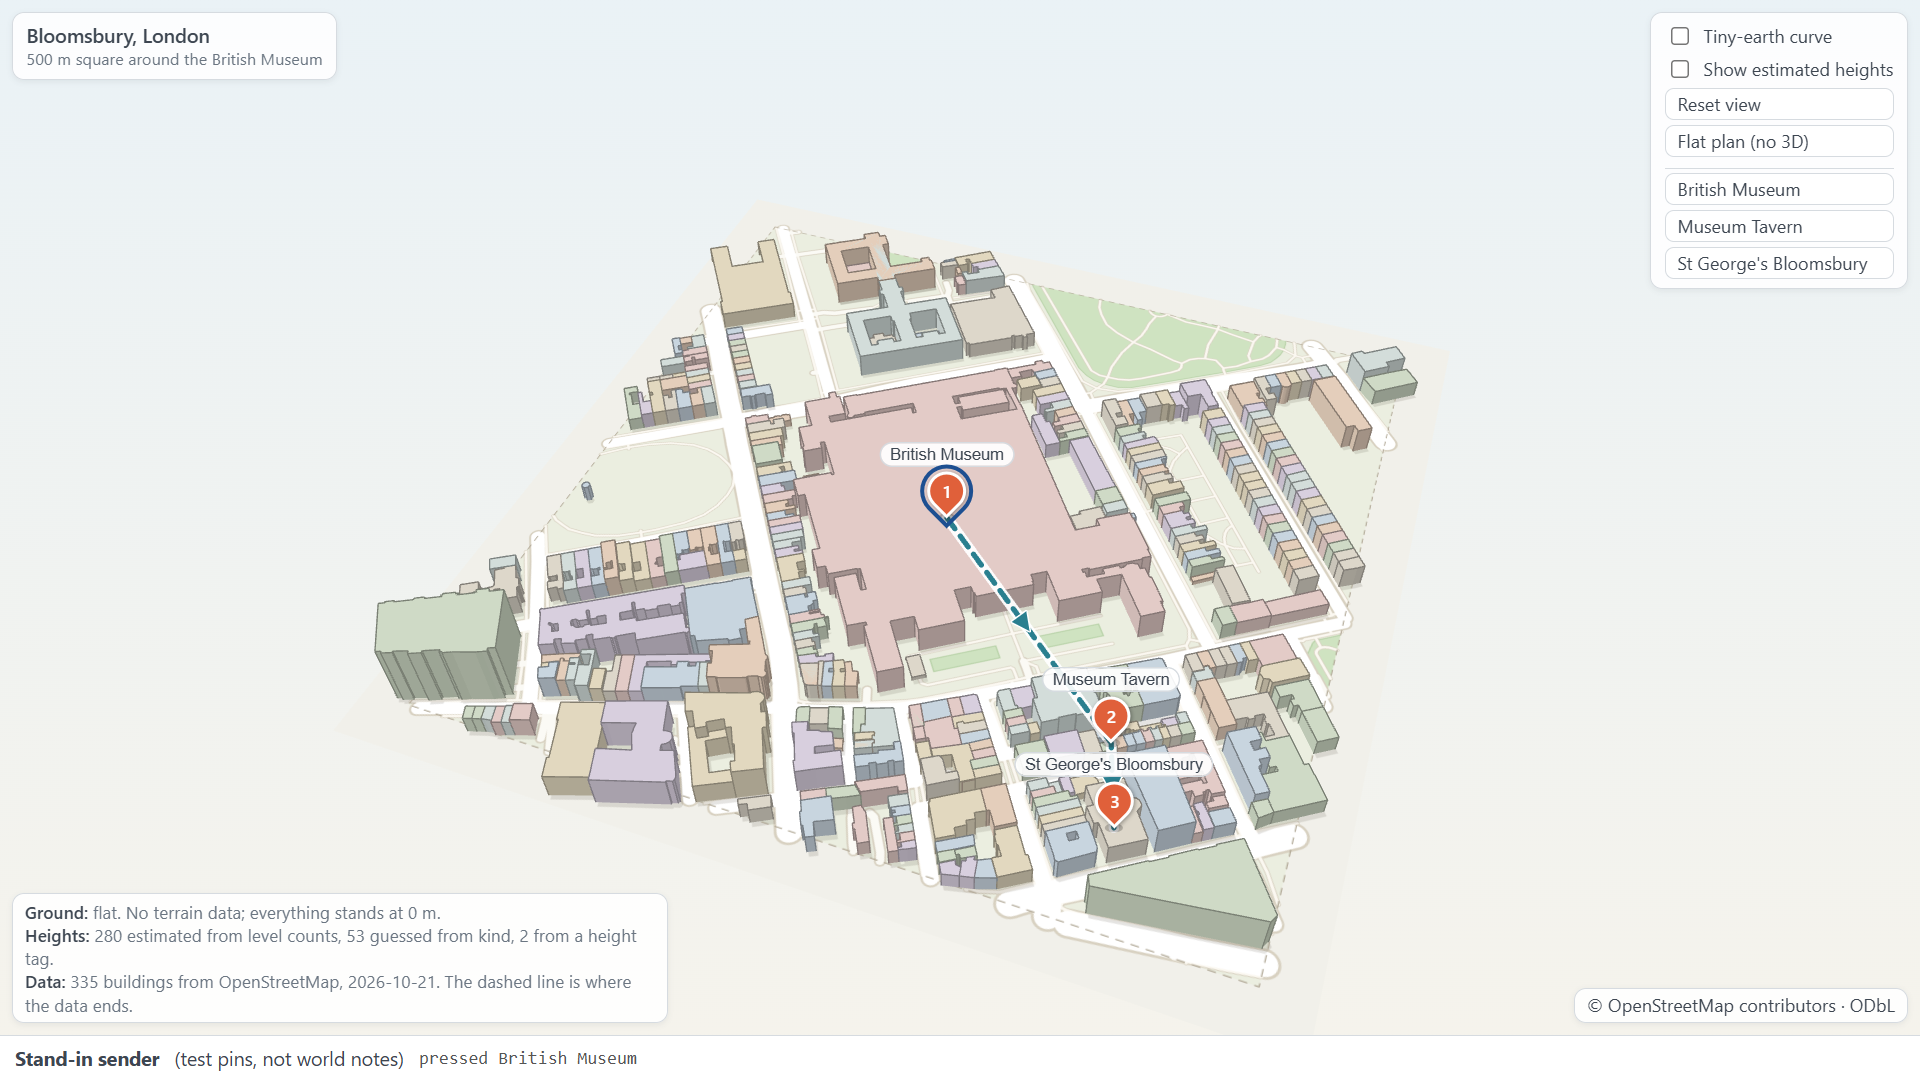
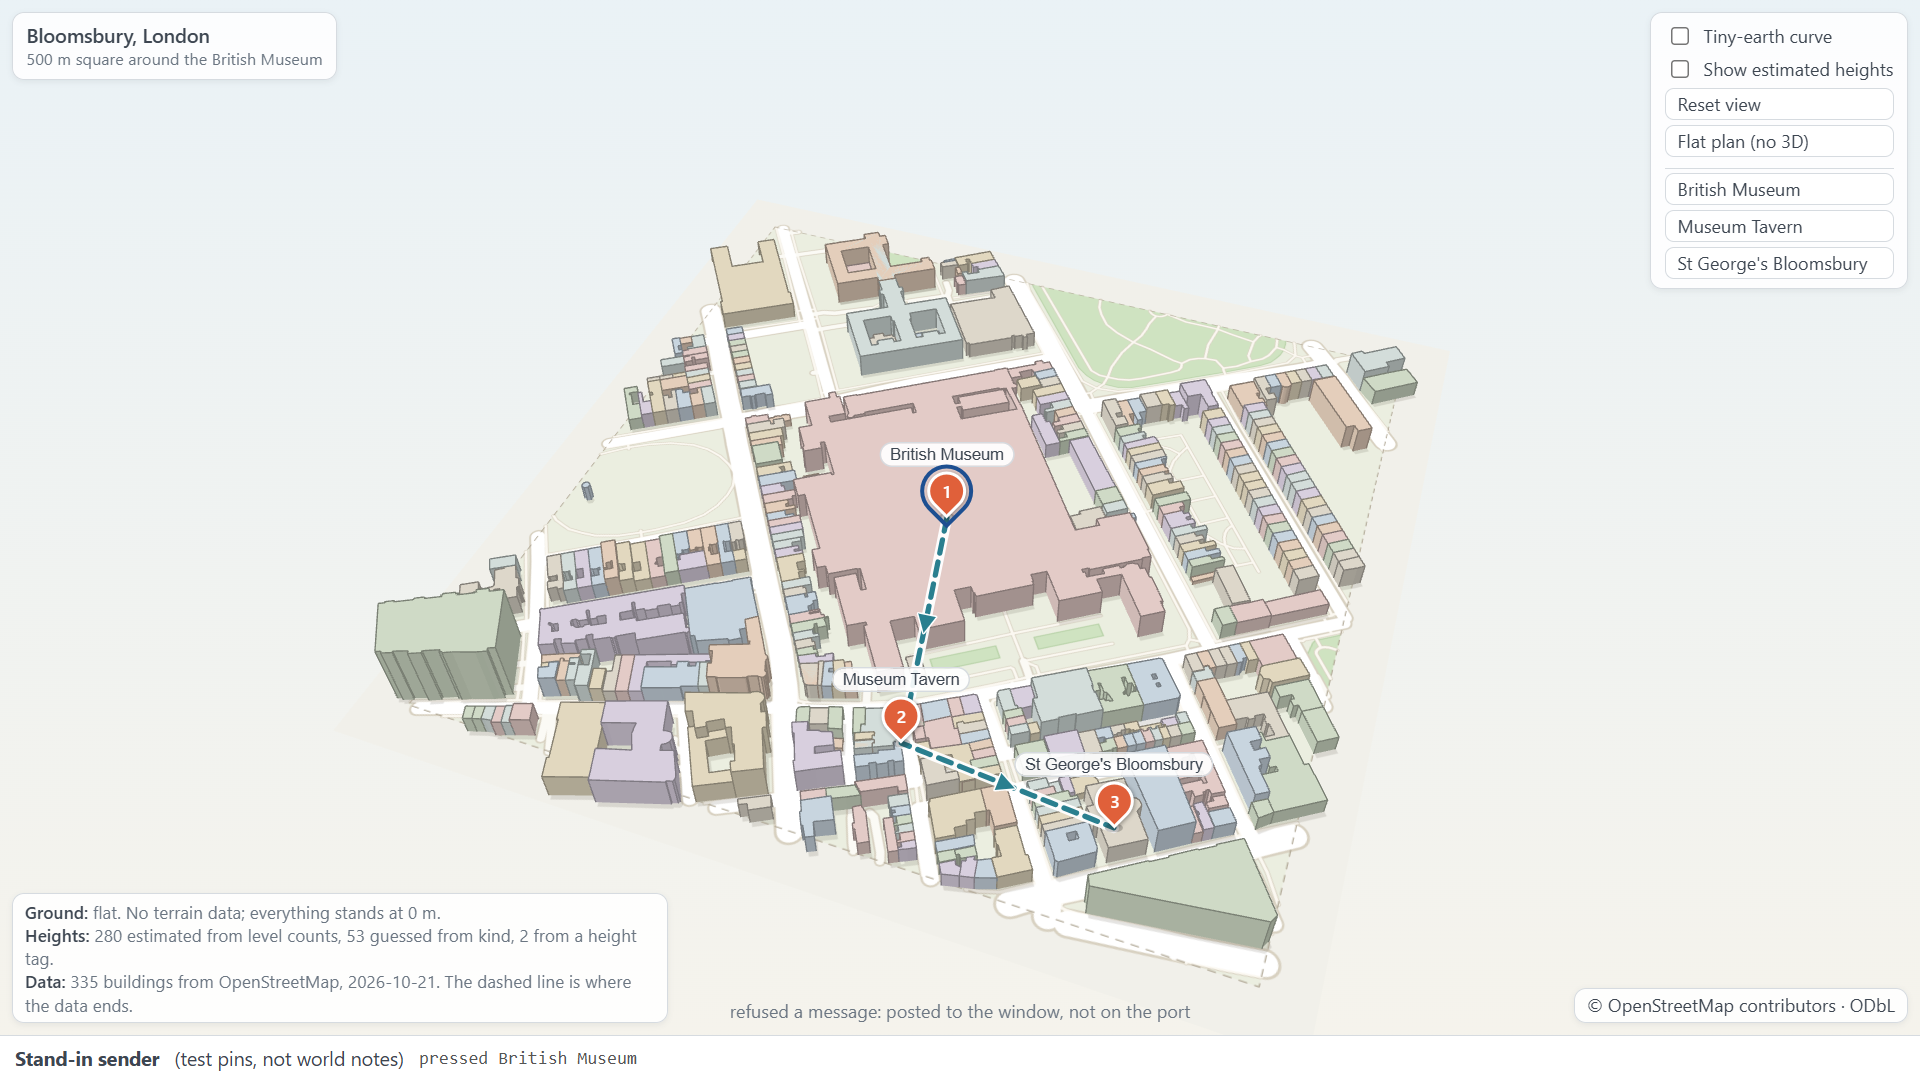
a7946: frame speaks only on the hello port (a7875 'Who is speaking', c8088)
The frame keeps e.ports[0] from its parent's hello, takes draws only from it and
sends press/drop/move only on it; anything on the window is refused both ways.
The stand-in host makes a fresh MessageChannel per load. measure.py now tests a
stale move by a real drag after a newer edit, and window posts refused; re-run at
both sizes on the hidden desktop, all pass; README numbers updated.

diff --git a/research/map-lab/ground/host.js b/research/map-lab/ground/host.js
@@ -1,5 +1,8 @@
-// A stand-in for the seam (a7950 builds the real one): holds three test pins and one route in memory, sends the
-// frame 'draw', and answers 'move' the way the contract says (a stale rev is refused and a fresh draw is sent).
+// A stand-in for the seam (a7950 builds the real one): holds three test pins and one route in memory, and speaks
+// to the frame as the contract says (a7875, THE SEAM, 'Who is speaking'): each time the frame loads, a new
+// MessageChannel; one 'hello' to the frame's window carrying a port; draws out and press/drop/move in on that port
+// only. Anything posted to this window is refused, even a well-formed message from the frame itself. A move at a
+// rev that is not the pin's current one is refused and the frame is sent a fresh draw.
 // Coordinates are the three footprint centroids pins.py took from the extract.
 'use strict';
 (() => {
@@ -14,17 +17,21 @@
     routes: [{id: 'r1', rev: 1, label: 'Museum walk', pins: ['p1', 'p2', 'p3']}],
   };
   const log = [];
+  let port = null;
   window.__host = {state, log, draw, frame};
   function say(s) { log.push(s); document.getElementById('log').textContent = s; }
-  function draw() {
-    frame.contentWindow.postMessage({channel: CH, op: 'draw', pins: state.pins, routes: state.routes}, '*');
-  }
-  frame.addEventListener('load', draw);
-  window.addEventListener('message', ev => {
-    // only the frame, which has an opaque origin ('null') because of its sandbox
-    if (ev.source !== frame.contentWindow || ev.origin !== 'null') return say('refused: not from the map frame');
-    const m = ev.data;
-    if (!m || typeof m !== 'object' || m.channel !== CH) return say('refused: wrong channel');
+  function draw() { if (port) port.postMessage({channel: CH, op: 'draw', pins: state.pins, routes: state.routes}); }
+  frame.addEventListener('load', () => {
+    if (port) port.close();
+    const ch = new MessageChannel();
+    port = ch.port1;
+    port.onmessage = ev => answer(ev.data);
+    frame.contentWindow.postMessage({channel: CH, op: 'hello'}, '*', [ch.port2]);
+    draw();
+  });
+  window.addEventListener('message', () => say('refused: posted to the window, not on the port'));
+  function answer(m) {
+    if (!m || typeof m !== 'object' || Array.isArray(m) || m.channel !== CH) return say('refused: wrong channel');
     const ok = (v, lo, hi) => typeof v === 'number' && Number.isFinite(v) && v >= lo && v <= hi;
     if (m.op === 'press') {
       const p = state.pins.find(p => p.id === m.id);
@@ -44,5 +51,5 @@
       return draw();
     }
     say('refused: unknown op');
-  });
+  }
 })();

diff --git a/research/map-lab/ground/map.js b/research/map-lab/ground/map.js
@@ -3,6 +3,7 @@
 // Messages (contract a7875, THE SEAM), channel agora-map/1, coordinates always named lat and lon:
 //   in   {channel, op:'draw', pins:[{id, rev, lat, lon, height, label, icon, colour}], routes:[{id, rev, label, pins:[ids]}]}
 //   out  {channel, op:'press', id}   {channel, op:'drop', lat, lon}   {channel, op:'move', id, rev, lat, lon}
+//   all of these travel on the MessagePort the parent's {channel, op:'hello'} carried; nothing on the window counts
 'use strict';
 (() => {
   const CH = 'agora-map/1';
@@ -482,11 +483,14 @@
   }
 
   // ---- messages --------------------------------------------------------------------------------------------------
+  // Who is speaking (a7875): a sandboxed frame's origin is 'null', so the host proves itself by handing this load one
+  // MessagePort in a 'hello'. Draws are taken from that port only, and press, drop and move go out on it only.
   const outbox = [], refusals = [];
+  let port = null;
   function send(m) {
     const msg = Object.assign({channel: CH}, m);
     outbox.push(msg);
-    if (window.parent !== window) window.parent.postMessage(msg, '*');   // ids and coordinates only; nothing private
+    if (port) port.postMessage(msg);           // ids and coordinates only; never a command, never an actor
   }
   const ID = /^[A-Za-z0-9][A-Za-z0-9_.:-]{0,63}$/;
   const fin = (v, lo, hi) => typeof v === 'number' && Number.isFinite(v) && v >= lo && v <= hi;
@@ -541,8 +545,14 @@
   }
   function refuse(why) { refusals.push(why); status('refused a message: ' + why); return {refused: [why]}; }
   window.addEventListener('message', ev => {
-    if (window.parent === window || ev.source !== window.parent) { refusals.push('message not from the parent'); return; }
-    receive(ev.data);
+    const d = ev.data;
+    if (window.parent !== window && ev.source === window.parent && d && d.channel === CH && d.op === 'hello' && ev.ports[0]) {
+      if (port) port.close();
+      port = ev.ports[0];
+      port.onmessage = m => receive(m.data);
+      return;
+    }
+    refuse('posted to the window, not on the port');      // even a well-formed draw
   });
 
   // ---- input -----------------------------------------------------------------------------------------------------

diff --git a/research/map-lab/ground/measure.py b/research/map-lab/ground/measure.py
@@ -228,15 +228,30 @@ def run_size(base, w, h, out):
           try { localStorage.length; o.storage = 'allowed'; } catch (e) { o.storage = 'blocked: ' + e.name; }
           return o; })()""")
         tip = js_in(fcd, ctx,"(() => { const p = __map.drawn().pins[1]; return __map.project(p.lat, p.lon, 0); })()")
-        drag(c, tip[0], tip[1] - 14, tip[0] + 70, tip[1] + 20 - 14, 20)
+        drag(c, tip[0], tip[1] - 14, tip[0] - 70, tip[1] + 20 - 14, 20)    # west, away from the other two pins
         time.sleep(0.6)
         fr["after_drag"] = {"host_log": c.js("__host.log.slice(-2)"),
                             "host_rev": c.js("__host.state.pins[1].rev"),
                             "frame_rev": js_in(fcd, ctx,"__map.drawn().pins[1].rev"),
                             "moves_sent": js_in(fcd, ctx,"__map.outbox.filter(m => m.op === 'move').length")}
-        js_in(fcd, ctx,"parent.postMessage({channel: 'agora-map/1', op: 'move', id: 'p2', rev: 1, lat: 51.5185, lon: -0.1262}, '*')")
+        # a newer edit the frame has not seen (as if made by line elsewhere), then a real drag from the old picture
+        c.js("__host.state.pins[1].rev += 1")
+        before = c.js("JSON.stringify(__host.state.pins[1])")
+        tip = js_in(fcd, ctx, "(() => { const p = __map.drawn().pins[1]; return __map.project(p.lat, p.lon, 0); })()")
+        drag(c, tip[0], tip[1] - 14, tip[0] - 40, tip[1] + 40 - 14, 20)
+        time.sleep(0.6)
+        fr["stale_move"] = {"grabbed": js_in(fcd, ctx, "__map.outbox.filter(m => m.op === 'move').slice(-1)[0].id"),
+                            "host_log": c.js("__host.log.slice(-1)"),
+                            "host_pin_unchanged": c.js("JSON.stringify(__host.state.pins[1])") == before,
+                            "frame_redrawn_rev": js_in(fcd, ctx, "__map.drawn().pins[1].rev"),
+                            "host_rev": c.js("__host.state.pins[1].rev")}
+        # well-formed, but on the window instead of the port: refused both ways
+        js_in(fcd, ctx, "parent.postMessage({channel: 'agora-map/1', op: 'press', id: 'p1'}, '*')")
+        c.js("__host.frame.contentWindow.postMessage({channel: 'agora-map/1', op: 'draw', pins: [], routes: []}, '*')")
         time.sleep(0.4)
-        fr["stale_move"] = {"host_log": c.js("__host.log.slice(-1)"), "host_pin": c.js("__host.state.pins[1]")}
+        fr["window_not_port"] = {"host_log": c.js("__host.log.slice(-1)"),
+                                 "frame_refusals": js_in(fcd, ctx, "__map.refusals.slice(-1)"),
+                                 "frame_still_draws": js_in(fcd, ctx, "__map.drawn().pins.length")}
         tip = js_in(fcd, ctx,"(() => { const p = __map.drawn().pins[0]; return __map.project(p.lat, p.lon, 0); })()")
         mouse(c, "mouseMoved", tip[0], tip[1] - 14)
         mouse(c, "mousePressed", tip[0], tip[1] - 14, 1, "left")

diff --git a/research/map-lab/ground/README.md b/research/map-lab/ground/README.md
@@ -39,7 +39,8 @@ This is the geography half of the first slice (map card a7858; contract a7875). 
 - **The seam** (a7875, THE SEAM; channel `agora-map/1`, carried as a field named `channel`):
   - In: `{channel, op:'draw', pins:[{id, rev, lat, lon, height, label, icon, colour}], routes:[{id, rev, label, pins:[ids]}]}`. Each draw replaces the whole picture.
   - Out: `{channel, op:'press', id}`, `{channel, op:'drop', lat, lon}` and `{channel, op:'move', id, rev, lat, lon}`. A move carries the rev the frame drew.
-  - The frame accepts messages only from its parent. A message that is not a draw on the right channel is refused whole.
+  - Who is speaking (c8088): each time the frame loads, the host makes a new MessageChannel and sends one `{channel, op:'hello'}` to the frame's window, carrying a port. The frame keeps that port, takes draws only from it, and sends press, drop and move only on it. Anything posted to the window is refused, in both directions.
+  - A message on the port that is not a draw on the right channel is refused whole.
   - Inside a draw, a bad pin or route is refused alone, and the rest draws. Unknown fields are dropped, labels are set as text only, and colours must be `#rrggbb`.
   - `host.html` holds the frame with `sandbox="allow-scripts"` and no `allow-same-origin`. The frame gets an opaque origin (`null`), cannot touch its parent or storage, and its CSP allows no network.
 
@@ -56,10 +57,10 @@ Hardware:
 | footprints | ≤ 500 | 335 | 335 |
 | triangles | ≤ 100,000 | 19,314 (11,122 buildings + 8,192 ground), plus 13,446 outline segments | same |
 | fixture size | ≤ 5 MiB | 207,985 B (0.198 MiB); 262,008 B for the whole page | same |
-| cold load to first drawn frame | (record) | 526.5 ms | 501.9 ms |
-| p95 draw time (CPU + GPU, `gl.finish`), real mouse drag, 90 frames | ≤ 33 ms | 0.3 ms | 0.4 ms |
-| p95 draw time, 240-frame spin | ≤ 33 ms | 0.3 ms | 0.3 ms |
-| p95 frame interval, spin | ≤ 33 ms | 16.8 ms (vsync) | 16.7 ms |
+| cold load to first drawn frame | (record) | 501.4 ms | 708.9 ms |
+| p95 draw time (CPU + GPU, `gl.finish`), real mouse drag, 90 frames | ≤ 33 ms | 0.4 ms | 0.4 ms |
+| p95 draw time, 240-frame spin | ≤ 33 ms | 0.3 ms | 0.4 ms |
+| p95 frame interval, spin | ≤ 33 ms | 16.7 ms (vsync) | 16.7 ms |
 | p95 frame interval, drag | | 33.5 ms | 33.5 ms |
 | frames drawn while idle, 3 s after load and after input | 0 | 0 and 0 | 0 and 0 |
 | static plan, WebGL refused | works | 3 pins, list, attribution, 0 idle frames | same |
@@ -76,8 +77,10 @@ The drag's frame interval of 33.5 ms is the driver's input rate, not the map's s
 **Frame round trip** (host.html at both sizes):
 - The draw arrives, with three pins and a route in order p1, p2, p3.
 - A real mouse drag of pin 2 sends exactly one `move`. The host accepts it at rev 1 → 2, and the frame then shows rev 2.
-- A second move at the old rev 1 is refused ("changed since"), and the pin is unchanged.
+- Then the host makes a newer edit the frame has not seen (rev 2 → 3), and a second real drag of the same pin sends rev 2. It is refused ("changed since"), the host's pin is unchanged, and the frame is redrawn at rev 3.
+- A well-formed press posted to the window, and a draw posted to the frame's window, are both refused ("posted to the window, not on the port"). The frame keeps its 3 pins.
 - A click on pin 1 sends `press`.
+- Across the day's 6 runs, cold load to first frame was 501 to 709 ms.
 - From inside the frame, `parent.document`, `parent.__host` and `localStorage` all throw SecurityError, and `fetch` is blocked.
 
 ## Images
